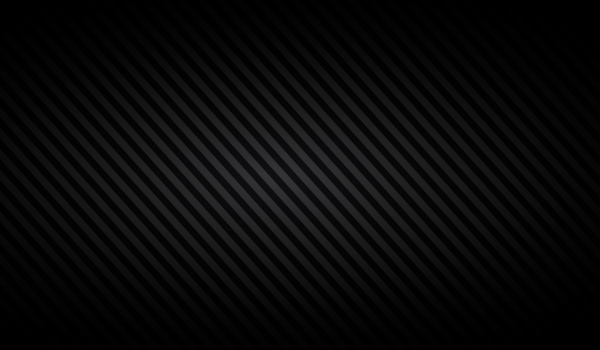
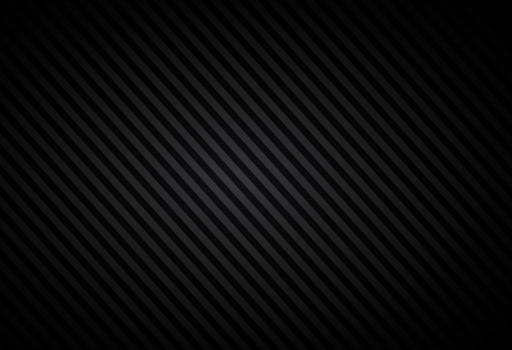
inspect image -> 512x350

Changed region(s): [[0.2812, 0.2571, 0.4688, 0.7714], [0.5, 0.2571, 0.6562, 0.7714]]

diff --git a/image-functions.js b/image-functions.js
@@ -210,7 +210,7 @@ const createBaseImage = async (image, item) => {
 
 const canCreateInspectImage = async (image) => {
     if (typeof image === 'string') image = await Jimp.read(image);
-    if (image.bitmap.width >= 600 || image.bitmap.height >= 350) {
+    if (image.bitmap.width >= 512 || image.bitmap.height >= 350) {
         return true;
     }
     return false;
@@ -224,11 +224,11 @@ const createInspectImage = async(sourceImage, item) => {
     }
 
     if (!await canCreateInspectImage(sourceImage)) {
-        return Promise.reject(`Source image for ${item.name} ${item.id} is not large enough, must be at least 448px wide or tall`);
+        return Promise.reject(`Source image for ${item.name} ${item.id} is not large enough; must be at least 512px wide or 350px tall`);
     }
 
-    if (sourceImage.bitmap.width > 600 || sourceImage.bitmap.height > 350) {
-        sourceImage.scaleToFit(600, 350);
+    if (sourceImage.bitmap.width > 512 || sourceImage.bitmap.height > 350) {
+        sourceImage.scaleToFit(512, 350);
     }
 
     const inspectImage = await Jimp.read(path.join(__dirname, 'background.png'));
@@ -260,7 +260,7 @@ const createLargeImage = async(image, item) => {
     }
 
     if (!await canCreateLargeImage(image)) {
-        return Promise.reject(`Source image for ${item.name} ${item.id} is not large enough, must be at least 512px wide or tall`);
+        return Promise.reject(`Source image for ${item.name} ${item.id} is not large enough; must be at least 512px wide or tall`);
     }
 
     if (image.bitmap.width > 512 || image.bitmap.height > 512) {

diff --git a/generate.js b/generate.js
@@ -287,7 +287,10 @@ const hashItems = async (options) => {
                 break;
             }
         };
-        console.log(`Found ${missingGridImage} items missing a grid image, ${missingIcon} missing an icon, ${missingBaseImage} missing a base image, ${missingInspectImage} missing a handbhook image`);
+        console.log(`${missingIcon} items missing icon`);
+        console.log(`${missingGridImage} items missing grid image`);
+        console.log(`${missingBaseImage} items missing base image`);
+        console.log(`${missingInspectImage} items missing inspect image`);
     } catch (error) {
         return Promise.reject(error);
     }
